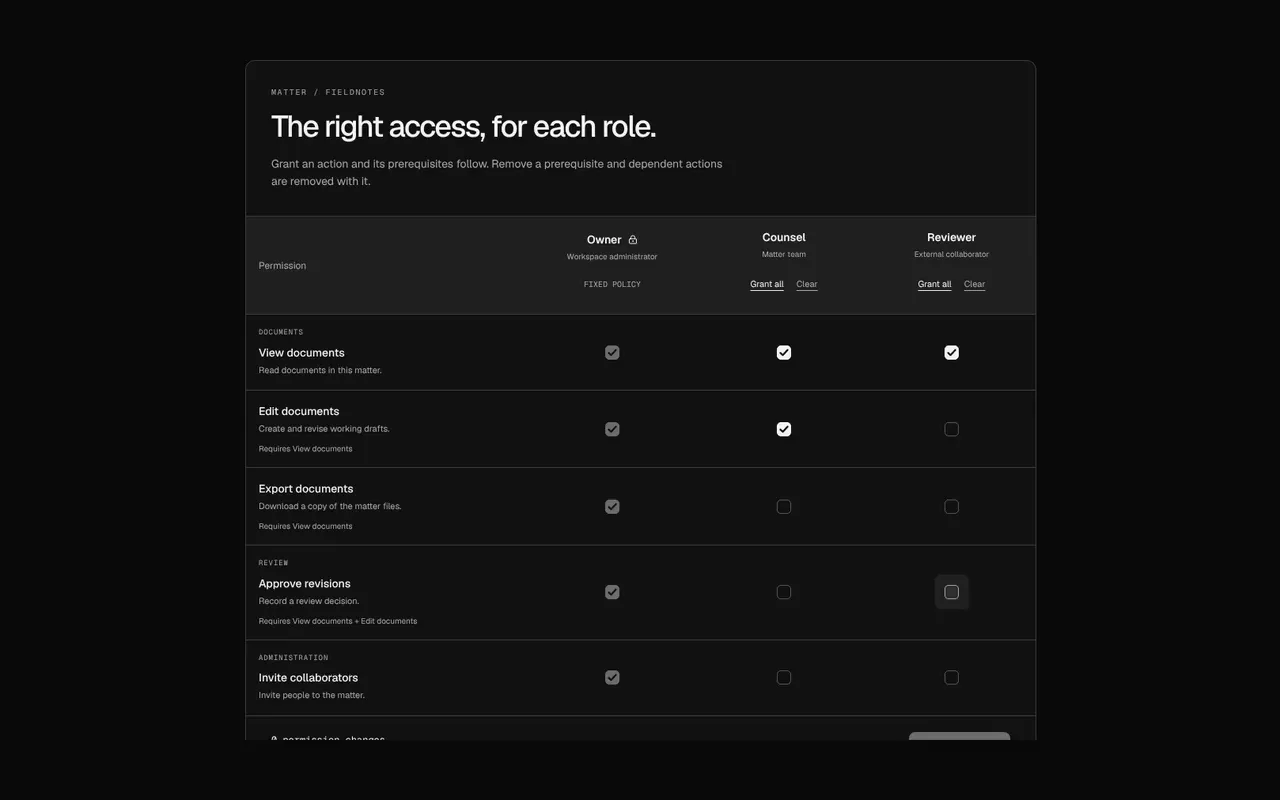
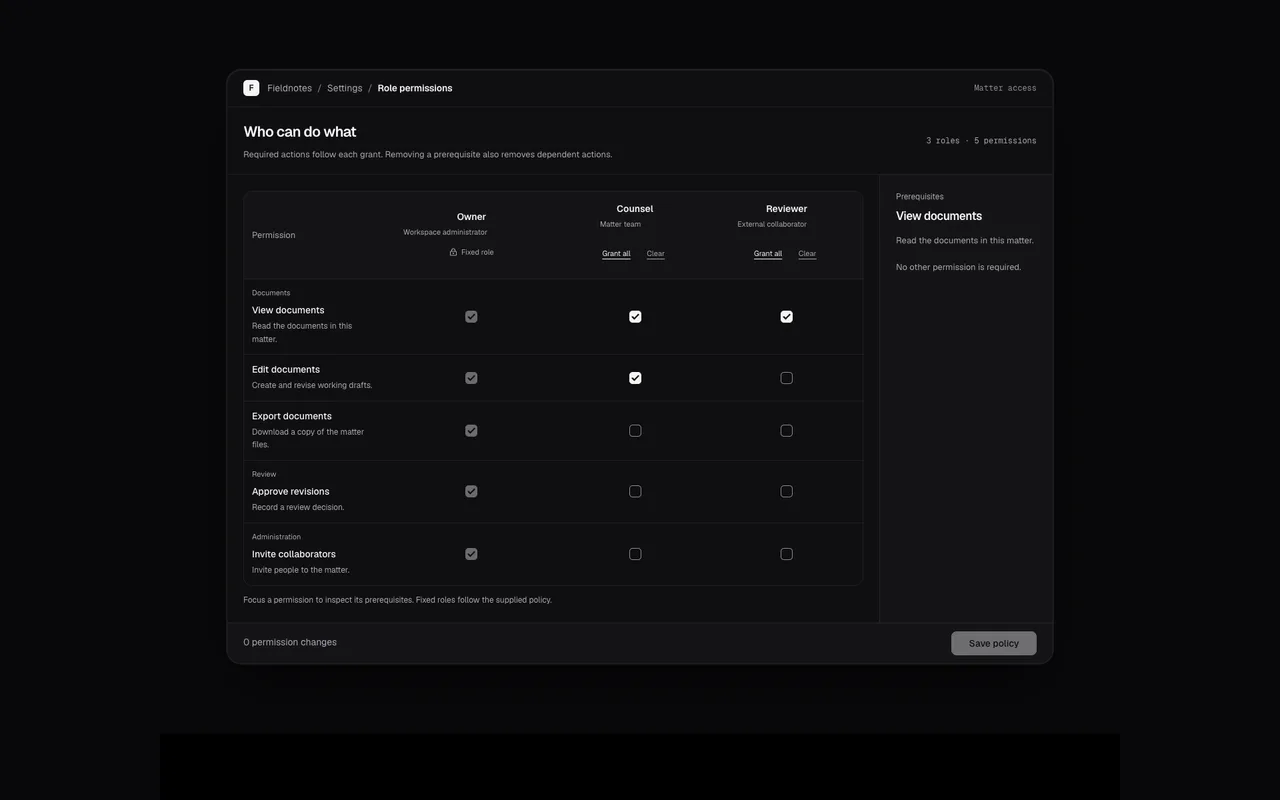
Verify Permission Matrix policy snapshots, focus and checkbox contrast

diff --git a/docs/review/HANDOFF_TASKS.md b/docs/review/HANDOFF_TASKS.md
@@ -235,6 +235,8 @@ and how to know it's done. Pick any of them up independently. Background, briefs
 
 - Task 1: Catalogue Import now has a reviewed 4.2s film showing CSV source, destination mapping, typed-record review and the settled three-record import. Complete framing matches the paired opening poster. Maximum source gap is 13ms, changed-source delivery is 25.2ms and moving-frame p95 is 18.3ms, with no stalls and every existing guard intact. 120 listed films remain.
 
+- Task 7: Permission Matrix is rebuilt around a role grid, a prerequisite inspector and an exact grant/remove ledger. Its 25-mount source review covers locked roles, transitive grants and removals, bulk actions, keyboard activation, copied callback payloads, retry/pending locks, opaque ids, invalid/empty policies and retired replies. A short-viewport Next check caught a 35px focus-driven scroll jump cancelling checkbox presses. Pointer inspection now follows activation; both-theme 900px workflows and explicit Tab inspection pass, with the original event trace preserved. Checkbox boundary contrast is corrected from 2.53:1 to 5.60:1 dark and 5.28:1 light through a component token, with a painted-colour regression and the canonical kit retained. Six widths, entrance/state captures, touch targets, two controls, official audit, exact two-change replay and full 1,200px poster pass. Strict registry, TypeScript and all 1,063 unit tests pass. Its film joins task 1; 32 components and 12 blocks remain in task 7.
+
 ## Ground rules (read first)
 
 - Two repos. Public: `richawo/Design-components-for-AI-agents` (this one). Pro: `richawo/Design-for-AI`, private, cloned
@@ -252,7 +254,7 @@ and how to know it's done. Pick any of them up independently. Background, briefs
 - Browser checks: `node scripts/check-component.mjs <slug> --base=http://localhost:3100 --no-video --keep-going`
   (screenshots at 1440/768/390 and every control flip; read the screenshots it writes to `test-results/check/<slug>/`).
 
-## 1. Re-record demo videos (120 components)
+## 1. Re-record demo videos (121 components)
 
 Every rebuilt component's poster is current but its catalogue film (`public/previews/<slug>.mp4`) still shows the old
 version. Record them one at a time on an otherwise idle machine; the recorder rejects frame stalls under load.
@@ -271,6 +273,7 @@ slug or per small group). Notes:
 
 Slugs:
 
+`app-permission-matrix`
 `editor-font-pairing`, `editor-keyframe-track`
 `editor-layer-stack`, `editor-spacing-inspector`, `editor-storyboard-strip`, `editor-version-restore`
 `three-exploded-assembly`, `three-material-inspector`, `agents-budget-guard`, `agents-dependency-board`
@@ -400,16 +403,16 @@ All nine parked rebuilds are shipped in both repos. Their original `_wip/<slug>`
 | finance-budget-variance | Completed 17 October: Next probe, dark/light accessibility, responsive and entrance/state captures, live demo and refreshed poster pass. |
 | finance-cashflow-dashboard | Completed 17 October: weekly balance and in/out bars, movable payments, independent pending saves, invalid-data guards, selected-week list geometry, Next probe/demo, both-theme accessibility, responsive/state/entrance captures and refreshed poster pass. |
 
-## 7. Continue the review (33 components, then 12 blocks)
+## 7. Continue the review (32 components, then 12 blocks)
 
-Same process as the 165 already done: hold each to the first ~100 components' standard. Briefs:
+Same process as the 166 already done: hold each to the first ~100 components' standard. Briefs:
 `docs/review/REVIEW_BRIEF.md`, `docs/review/SUITE_BRIEF.md` for industry components, suite languages in
 `docs/review/suites/`. Work newest first, about four components per batch, and verify each (build, tsc, tests,
 check-component, your own captures of states and mid-entrance frames, a refreshed poster, a rewritten pro-50 probe for
 industry components).
 
 - **Commerce** is reviewed. Keep `block-commerce-workspace` compatible with its rebuilt parts.
-- **Others**: app-permission-matrix, legal-version-history (`suites/legal.md`), hr-capacity-planner (`suites/hr.md`),
+- **Others**: legal-version-history (`suites/legal.md`), hr-capacity-planner (`suites/hr.md`),
   data-query-builder.
 - **Smaller components** (#151–179): chart-waterfall-bridge, content-release-notes, cards-event-ticket,
   chart-slope-comparison, chart-bullet-targets, media-story-deck, devtools-request-waterfall, devtools-json-inspector,

diff --git a/docs/review/STATUS.md b/docs/review/STATUS.md
@@ -1,6 +1,6 @@
 # Review status
 
-165 components are rebuilt (or, for a few, polished), verified and committed. For each: whether its demo video
+166 components are rebuilt (or, for a few, polished), verified and committed. For each: whether its demo video
 needs re-recording, whether its poster is current, and the state of its browser regression probe.
 
 - **Video**: `new` means `public/previews/<slug>.mp4` still shows the old version. Re-record serially on a quiet machine:
@@ -108,6 +108,12 @@ Measurements, checkout revisions and package diagnostics are recorded in
 | `input-expression-editor` | new | current |  |
 | `input-unit-converter` | new | current |  |
 | `selects-tree-picker` | new | current |  |
+
+## Application workflows (1)
+
+| Slug | Video | Poster | Probe |
+| --- | --- | --- | --- |
+| `app-permission-matrix` | new | current | Rebuilt role matrix, prerequisite inspector and grant/remove ledger; 25-mount source review and Next dependency/bulk/keyboard/exact-payload/retry/pending/mutation/revision regression pass. Both-theme short-viewport pointer/focus correction, 5.60:1 dark and 5.28:1 light checkbox boundaries, six widths, entrance/state captures, touch targets, two controls, official audit and complete 1,200px two-change replay/poster pass. Strict registry, TypeScript and all 1,063 unit tests pass. |
 
 ## SaaS suite (10)
 
